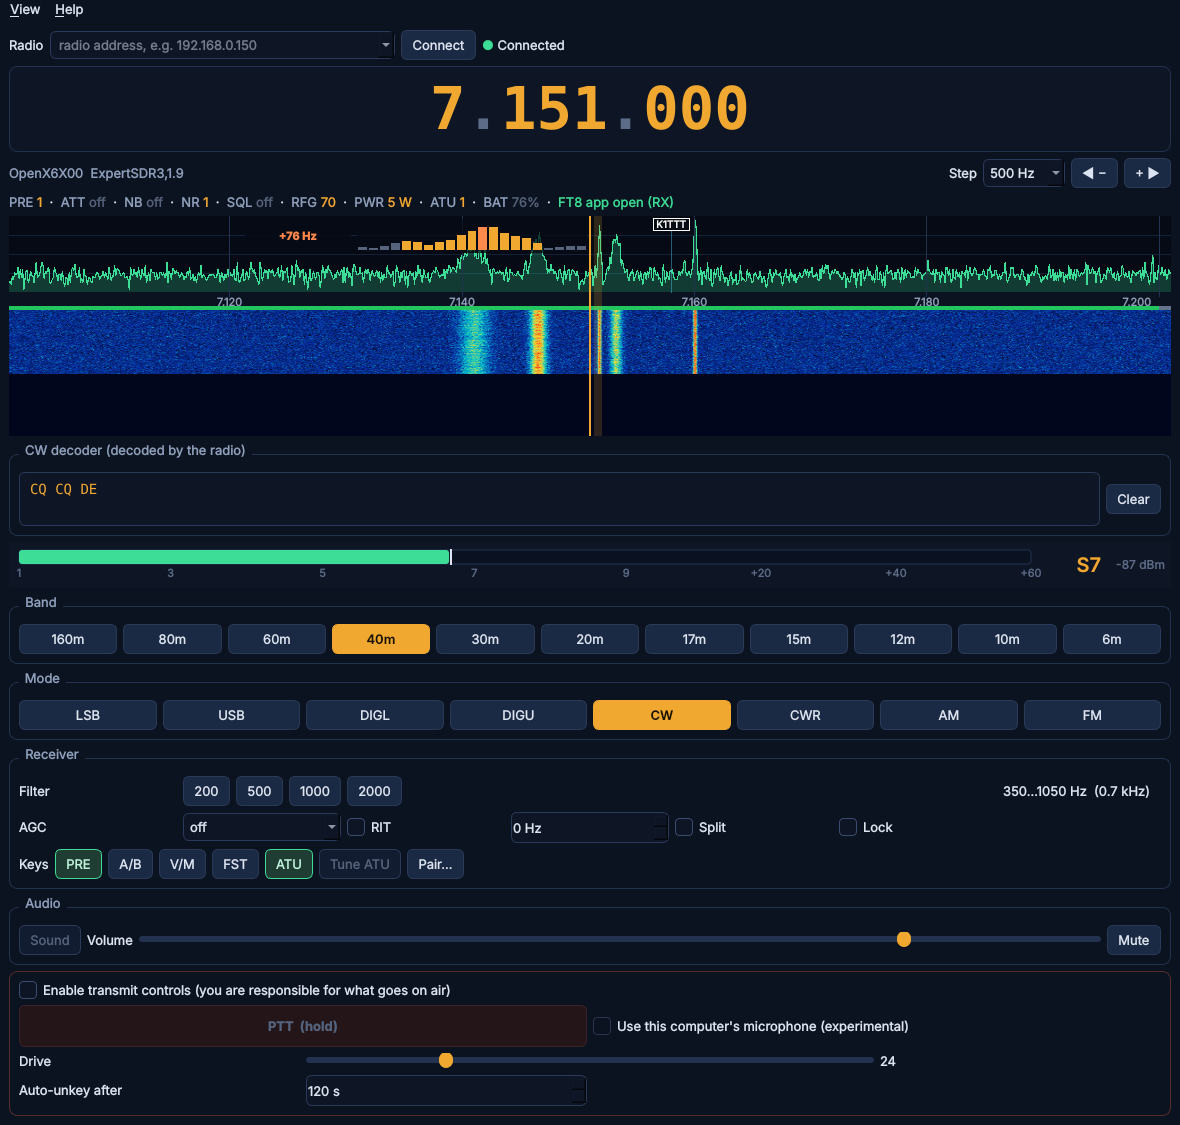
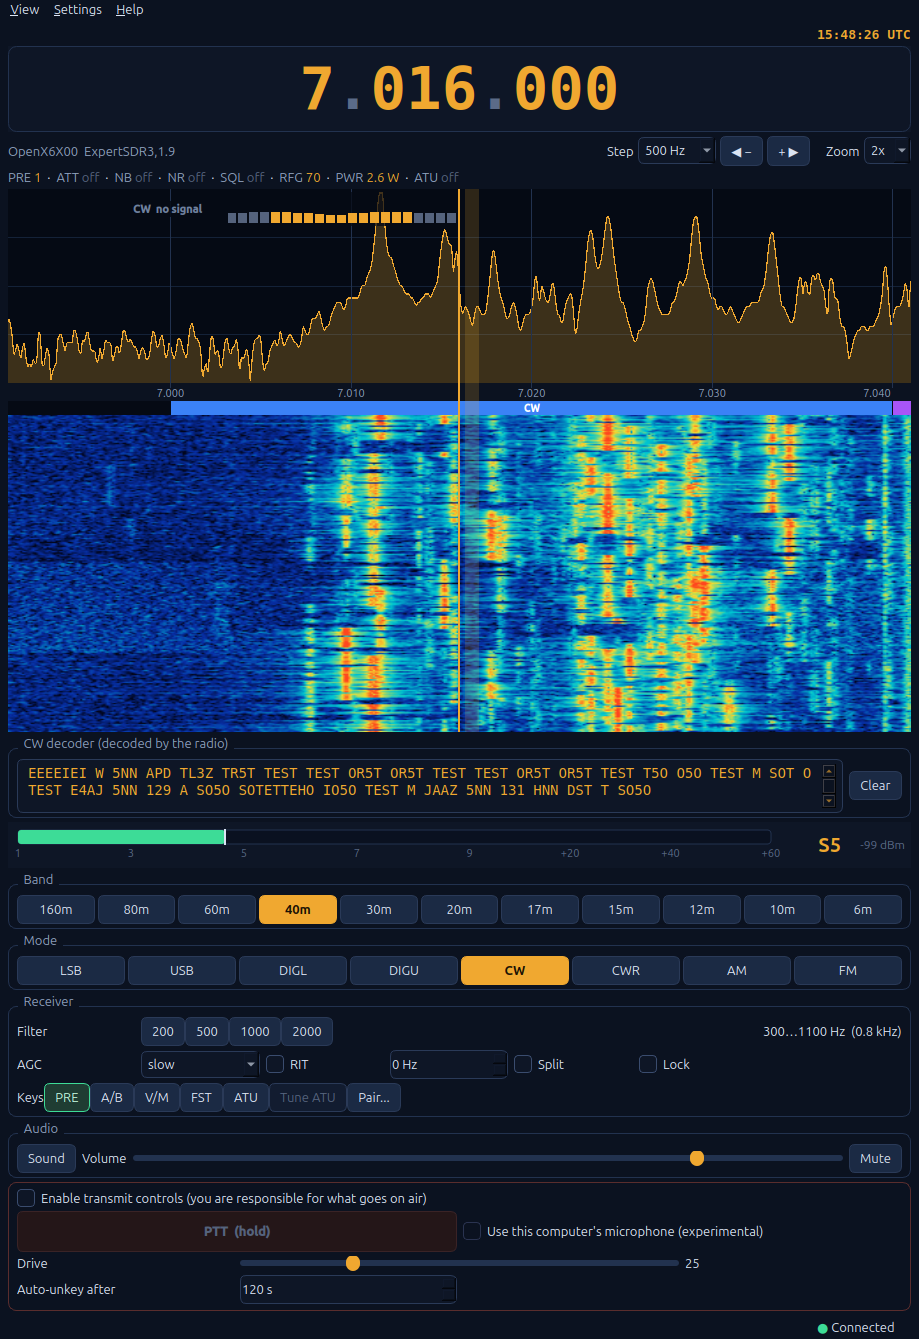
Steadier CW tuner readout, README update, new screenshot from a live radio

diff --git a/src/x6100_remote/gui/spectrum_view.py b/src/x6100_remote/gui/spectrum_view.py
@@ -1,12 +1,15 @@
 """Spectrum trace + scrolling waterfall. Click to tune, mouse wheel to step."""
 from __future__ import annotations
 
+import time
+
 import numpy as np
 from PySide6.QtCore import QPointF, QRectF, Qt, Signal
 from PySide6.QtGui import QColor, QFont, QFontMetricsF, QImage, QPainter, QPen, QPolygonF
 from PySide6.QtWidgets import QSizePolicy, QWidget
 
-from ..cwtuner import CwTune, analyze, smooth, window_half_width, window_levels
+from ..cwtuner import (BAR_FALL_PER_S, HOLD_S, SHOWN_EVERY_S, SMOOTH_ALPHA, CwTune, analyze, smooth,
+                       window_half_width, window_levels)
 from ..panelinfo import PLAN_CW, PLAN_DIGITAL, PLAN_PHONE, PlanSegment, Spot
 from ..spectrum import SpectrumFrame
 
@@ -105,7 +108,12 @@ class SpectrumView(QWidget):
         self.show_spots = True
         self.show_cw_tuner = True
         self._cw_bw: int | None = None                # passband width (Hz) while in CW/CW-R, else None
-        self._cw_tune: CwTune | None = None
+        self._cw_tune: CwTune | None = None           # smoothed reading (held for HOLD_S after the signal drops)
+        self._cw_seen = 0.0                           # monotonic time of the last frame that had a signal
+        self._cw_shown: CwTune | None = None          # what the readout shows (refreshed a few times per second)
+        self._cw_shown_t = 0.0
+        self._cw_hold: np.ndarray | None = None       # peak-hold bar heights
+        self._cw_hold_t = 0.0
         self._cw_target = 0.0
         self._spot_boxes: list[tuple[QRectF, Spot]] = []
 
@@ -135,6 +143,8 @@ class SpectrumView(QWidget):
         self._cw_target = float(target_hz)
         self._cw_tune = (analyze(self._frame, bandwidth_hz, target_hz=self._cw_target)
                          if (bandwidth_hz and self._frame) else None)
+        self._cw_seen = time.monotonic()
+        self._cw_shown, self._cw_hold = self._cw_tune, None
         self.update()
 
     def set_zoom(self, zoom: int) -> None:
@@ -189,10 +199,24 @@ class SpectrumView(QWidget):
         self._wf[0] = self._lut[lv]
         self._wl[0] = lv
         self._level, self._frame = level, frame
-        self._cw_tune = (smooth(self._cw_tune, analyze(frame, self._cw_bw, target_hz=self._cw_target), self._cw_bw)
-                         if self._cw_bw else None)
+        self._track_cw(frame)
         self.frames += 1
         self.update()
+
+    def _track_cw(self, frame: SpectrumFrame) -> None:
+        """Steady CW tuner reading: heavy smoothing, and the last reading is held while keyed CW is between elements."""
+        if not self._cw_bw:
+            self._cw_tune = self._cw_shown = None
+            return
+        now = time.monotonic()
+        raw = analyze(frame, self._cw_bw, target_hz=self._cw_target)
+        if raw is not None:
+            self._cw_tune = smooth(self._cw_tune, raw, self._cw_bw, alpha=SMOOTH_ALPHA)
+            self._cw_seen = now
+        elif now - self._cw_seen > HOLD_S:
+            self._cw_tune = None
+        if now - self._cw_shown_t >= SHOWN_EVERY_S or (self._cw_tune is None) != (self._cw_shown is None):
+            self._cw_shown, self._cw_shown_t = self._cw_tune, now
 
     def _shift_waterfall(self, old: SpectrumFrame, new: SpectrumFrame) -> None:
         """The radio re-centres on the VFO: slide the history so signals stay where they are."""
@@ -394,8 +418,16 @@ class SpectrumView(QWidget):
         x0, x1 = rect.left(), rect.right()
         p.fillRect(rect, QColor(5, 10, 20, 190))
         levels = np.clip(window_levels(f, half, n, values=self._level, centre_hz=self._cw_target), 0.0, 1.0)
+        now = time.monotonic()
+        if self._cw_hold is None or len(self._cw_hold) != n:
+            self._cw_hold = levels.copy()
+        else:                                                      # peak hold: jump up at once, fall slowly
+            fall = BAR_FALL_PER_S * min(0.5, now - self._cw_hold_t)
+            self._cw_hold = np.maximum(levels, self._cw_hold - fall)
+        self._cw_hold_t = now
+        levels = self._cw_hold
         bar_w = (x1 - x0) / n
-        tune = self._cw_tune
+        tune = self._cw_shown
         peak_i = None
         if tune is not None and abs(tune.offset_hz) < half:
             peak_i = min(n - 1, max(0, int((tune.offset_hz + half) / (2 * half) * n)))

diff --git a/tests/test_cwtuner.py b/tests/test_cwtuner.py
@@ -85,7 +85,11 @@ def test_widget_draws_tuner_only_when_enabled():
     assert v._cw_tune is not None and abs(v._cw_tune.offset_hz - 60) < 30
     v.grab()                                                             # paints with bars and label
     v.push(frame_with({}))
-    assert v._cw_tune is None
+    assert v._cw_tune is not None and v._cw_shown is not None            # keyed CW: the reading is held for a while
+    v.grab()
+    v._cw_seen -= 5.0                                                    # ... then dropped
+    v.push(frame_with({}))
+    assert v._cw_tune is None and v._cw_shown is None
     v.grab()                                                             # "no signal" label
     v.set_show_cw_tuner(False)
     v.set_cw_tuner(None)
@@ -131,3 +135,23 @@ def test_signal_at_the_cw_pitch_is_on_tone_and_cwr_mirrors():
     # a signal on the VFO line is NOT on tone any more when the pitch is 600
     on_line = analyze(frame_with({0.0: 60}), 500, target_hz=600)
     assert on_line is None or not on_line.aligned
+
+
+def test_reading_is_steady_and_bars_hold():
+    from PySide6.QtWidgets import QApplication
+
+    from x6100_remote.gui.spectrum_view import SpectrumView
+    QApplication.instance() or QApplication([])
+    v = SpectrumView(rows=8)
+    v.resize(800, 500)
+    v.push(frame_with({60.0: 60}))
+    v.set_cw_tuner(500)
+    shown = [v._cw_shown]
+    for i in range(20):                                                  # 20 quick frames: readout is not refreshed
+        v.push(frame_with({60.0 + (i % 2) * 40: 60}, seed=i))            # each frame (rate limited), so it holds still
+    assert v._cw_shown is shown[0] or abs(v._cw_shown.offset_hz - shown[0].offset_hz) < 40
+    v.grab()
+    peak = v._cw_hold.max()
+    v.push(frame_with({}))
+    v.grab()
+    assert v._cw_hold.max() > 0.8 * peak                                 # bars fall slowly, not instantly

diff --git a/src/x6100_remote/cwtuner.py b/src/x6100_remote/cwtuner.py
@@ -20,6 +20,10 @@ from .spectrum import SpectrumFrame
 
 MIN_STRENGTH = 10.0           # peak above the median of the window, raw bin units, to count as a signal
 ALIGNED_HZ = 20.0             # |offset| within this: "on the line"
+SMOOTH_ALPHA = 0.1            # weight of each new frame in the offset average (lower: steadier, slower to follow)
+HOLD_S = 2.0                  # keep showing the last reading this long after the signal drops (keyed CW has gaps)
+SHOWN_EVERY_S = 0.3           # the readout is refreshed at most this often so the digits are readable
+BAR_FALL_PER_S = 0.5          # peak-hold bars fall by this fraction of full scale per second
 
 
 @dataclass

diff --git a/README.md b/README.md
@@ -71,9 +71,15 @@ The app also connects to the radio's panel server (port 50002, the same server a
 Click the spectrum to tune, scroll the wheel to step. The orange band is the receive passband. Level scaling is
 automatic (the radio's bin values are not calibrated). Hide it with View > Spectrum & waterfall.
 
+- **Zoom** (1x, 2x, 4x, 8x, next to the frequency step) shows the middle part of the radio's 100 kHz span. It is a display
+  zoom only (the panel protocol has no span command), so the resolution does not get finer.
+- **Colours**: Settings > Settings... > Display picks the waterfall colour scheme and the spectrum trace colour.
+- The radio address and **Connect** live in Settings > Connection; the connection status is at the bottom of the
+  window and a **UTC clock** is at the top right.
+
 ### Extras from the panel server
 
-- **Band plan** as a coloured strip under the frequency axis (blue CW, purple digital, green phone, grey other).
+- **Band plan** as a labelled coloured strip under the frequency axis (blue CW, purple digital, green ALL MODES / SSB, grey other).
 - **DX spots** (the radio's cluster feed) as call-sign labels on the spectrum: click one to tune to its exact
   frequency, hover for comment and spotter. Toggle in View > DX spots on spectrum.
 - **Radio status strip**: preamp, attenuator, NB, NR, squelch, RF gain, power, tuner, battery, FT8 app open (read-only).
@@ -96,8 +102,12 @@ carrier and the signal is heard at the pitch. The pitch is the radio's own setti
 700 Hz). In CW and CW-R the receive passband is drawn there, and a row of vertical bars (the spectrum around that point)
 sits at the top-left of the VFO line, with the strongest signal highlighted (green when on tone, orange inside the
 passband, red outside) and its offset from the tone in Hz beside the meter. Tune until the offset is near 0. The offset
-is an estimate from the radio's spectrum bins (about 98 Hz per bin at the 100 kHz span), smoothed over frames: expect an
-accuracy of a few tens of Hz. Switch it off in View > CW tuner indicator.
+is an estimate from the radio's spectrum bins (about 98 Hz per bin at the 100 kHz span): expect an accuracy of a few tens
+of Hz.
+
+The display is built to be readable on keyed CW, not just fast: the offset is averaged over many frames, the number is
+refreshed about three times a second, the last reading is held for 2 seconds when the signal pauses between elements
+(then it shows "no signal"), and the bars are peak-held and fall slowly. Switch it off in View > CW tuner indicator.
 
 ## PTT from an OS keyboard shortcut
 

diff --git a/CHANGELOG.md b/CHANGELOG.md
@@ -2,6 +2,7 @@
 
 ## 0.3.0
 
+- CW tuner indicator is steadier: heavier averaging, the readout refreshes about 3 times a second, the last reading is held for 2 s when the signal pauses, and the bars are peak-held and fall slowly.
 - `.deb`: real maintainer (Apostolis Mystikis, M7SVA), homepage and a fuller description.
 - Windows: install instructions, a PyInstaller build script (`packaging/build_windows.ps1`) and a Windows CI job that runs the tests and builds the zip.
 - Spectrum and waterfall zoom (1x, 2x, 4x, 8x) next to the frequency step. It is a display zoom of the middle of the radio's 100 kHz span (the panel protocol has no span command), so the resolution does not improve; the choice is remembered.
